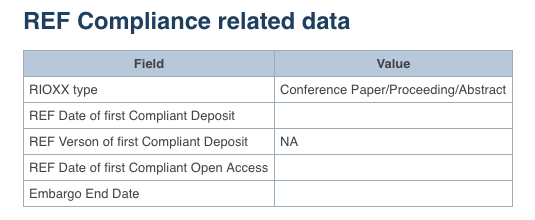
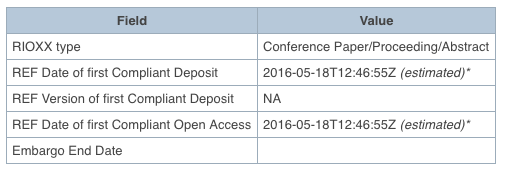
Manual.md

diff --git a/Manual.md b/Manual.md
@@ -1,4 +1,3 @@
-- [Date of first compliant Open Access](#DateFOA)
 - [Submission](#Submission)
 	- [Exception Step](#ExceptionStep)
 		- [Introduction](#ExceptionStep-Introduction)
@@ -10,14 +9,12 @@
 		- [Technical and Other Exceptions](#ComplianceStep-Technical-and-Other-Exceptions)
 		- [Requirements sections](#ComplianceStep-Requirements-sections)
 		- [REF Compliance related data](#ComplianceStep-related-data)
+- [Workflow](#Workflow)
+	- [Compliance Step](#Workflow-ComplianceStep)
+		- [Introduction](#Workflow-ComplianceStep-Introduction)
+		- [Actions](#Workflow-ComplianceStep-Actions)
+- [Date of first compliant Open Access](#DateFOA)
 
-# Date of first compliant Open Access <a name="DateFOA"></a> #
-
-A curation task to update the Date of first compliant Open Access of an item is available from the list of curation tasks for items, collections and communities.
-
-This curation task checks the embargo of an item's bitstream and updates the Date of first compliant Open Access to the end date of the embargo if the embargo has expired.
-
-The Date of first compliant Open Access is stored in metadata field refterms.dateFOA.
 
 # Submission <a name="Submission"></a> #
 
@@ -43,7 +40,7 @@ These extra fields are also configurable in the same file as where the configura
 
 Apart from the "No Exception applicable" There are 2 different "types" of exception-views.
 
-1. Deposit, Access and Technical -> These Exceptions all have subdivisions. This is shown as a dropdown box containing extra options. The helptext underneath the textarea changes depending on what option was selected.
+1. Deposit, Access and Technical Exception -> These Exceptions all have subdivisions. This is shown as a dropdown box containing extra options. The helptext underneath the textarea changes depending on what option was selected.
 2. Other Exception -> This only contains the input field where the user can fill in the explanation of the exception.
 
 ![Exception Step no dropdown](images/no-dropdown.png?raw=true "Exception Step no dropdown")
@@ -105,5 +102,29 @@ At the bottom of the page section "REF Compliance related data" shows an overvie
 
 ![Compliance Step related data](images/hefce-compliancestep-5.png?raw=true "Compliance Step related data")
 
+Some of these values contain text *(estimated)*. These values were estimated so that they could be used in the compliance check. They will receive a “real” value upon item archival or at the end of the embargo. 
 
+# Date of first compliant Open Access <a name="DateFOA"></a> #
 
+A curation task to update the Date of first compliant Open Access of an item is available from the list of curation tasks for items, collections and communities.
+
+This curation task checks the embargo of an item's bitstream and updates the Date of first compliant Open Access to the end date of the embargo if the embargo has expired.
+
+The Date of first compliant Open Access is stored in metadata field refterms.dateFOA.
+
+# Workflow <a name="Workflow"></a> #
+
+## Compliance Step <a name="Workflow-ComplianceStep"></a> ##
+
+### Introduction <a name="Workflow-ComplianceStep-Introduction"></a> ###
+
+The workflow Compliance step provides an overview of the item's compliance with hefce. This step's overview provides the same information as the [submission's compliance step](#DateFOA).
+
+### Actions <a name="Workflow-ComplianceStep-Actions"></a> ###
+
+The workflow reviewer has 2 options after reviewing the compliance step:
+
+1. Continue: Finish the compliance step and send the item to the final edit step. Note that this option might be disabled if the item is not compliant with the HEFCE policy. Collections can be configured to enforce item compliance before allowing the submission to continue.
+2. Return: Return the item back to the edit step to resolve the issues found by the compliance step. 
+
+![Compliance Workflow Step actions](images/hefce-compliancestep-5.png?raw=true "Compliance Workflow Step actions")
